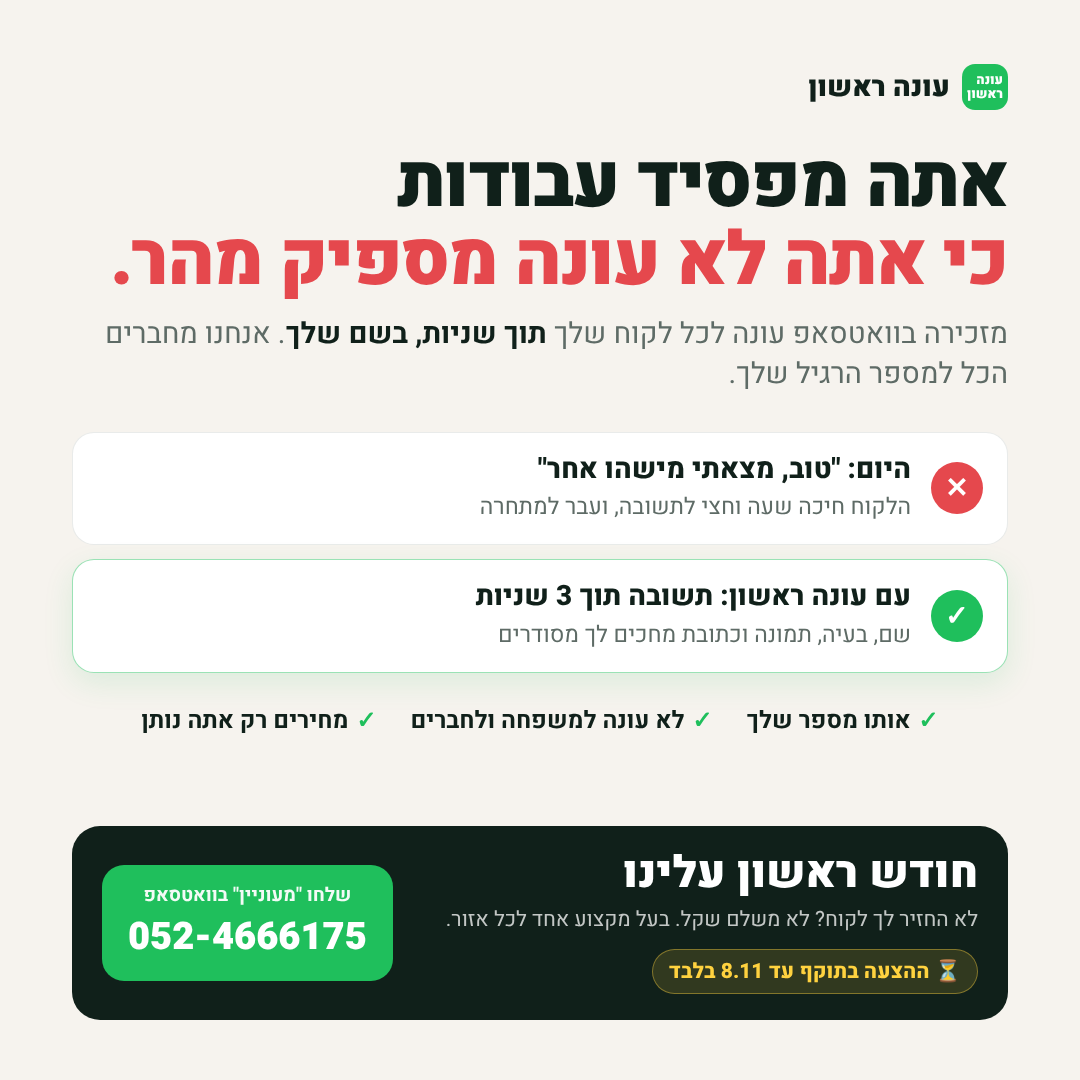
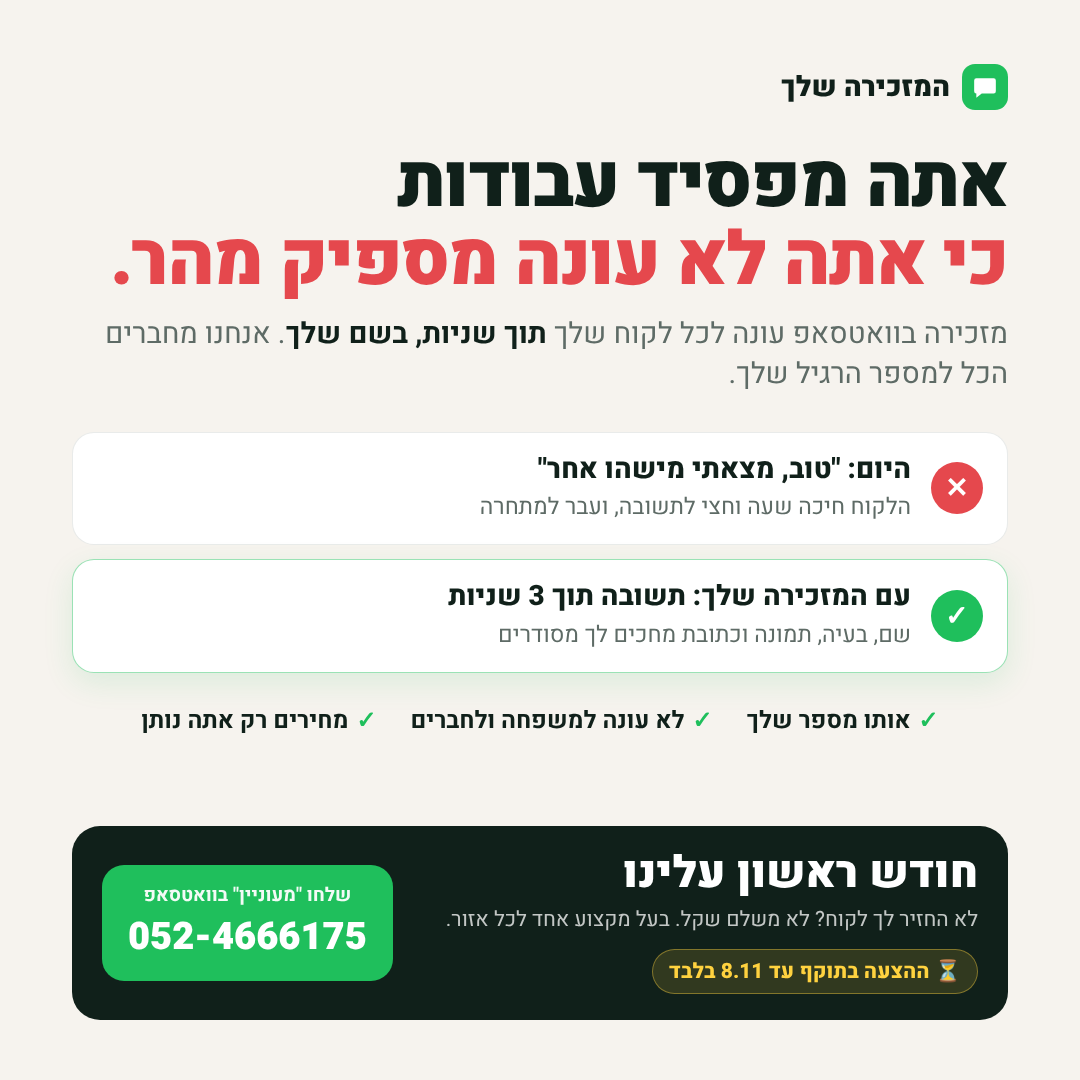
Marketing: ad 4 brand name is now 'המזכירה שלך'
Claude-Session: https://claude.ai/code/session_01HQzqsdhN1zqdDaLfgiyK4J

Changed region(s): [[0.4278, 0.5194, 0.7944, 0.5806], [0.7028, 0.0611, 0.9472, 0.0917]]

diff --git a/automation-agency/marketing/before-after-ad/ad.html b/automation-agency/marketing/before-after-ad/ad.html
@@ -2,7 +2,7 @@
 <html lang="he" dir="rtl">
 <head>
 <meta charset="utf-8">
-<title>מודעה 4 - עונה ראשון</title>
+<title>מודעה 4 - המזכירה שלך</title>
 <link href="https://fonts.googleapis.com/css2?family=Heebo:wght@400;500;700;800;900&display=block" rel="stylesheet">
 <style>
   /* default 1080x1080 (feed), ?story = 1080x1920. DEADLINE: change in the .deadline text */
@@ -53,12 +53,12 @@
 </head>
 <body>
 <div class="page">
-  <div class="brand"><i>עונה<br>ראשון</i>עונה ראשון</div>
+  <div class="brand"><i><svg viewBox="0 0 24 24" width="26" height="26" fill="#fff"><path d="M4 4h16a2 2 0 0 1 2 2v10a2 2 0 0 1-2 2H9l-5 4v-4a2 2 0 0 1-2-2V6a2 2 0 0 1 2-2z"/></svg></i>המזכירה שלך</div>
   <h1>אתה מפסיד עבודות<br><span>כי אתה לא עונה מספיק מהר.</span></h1>
   <div class="sub">מזכירה בוואטסאפ עונה לכל לקוח שלך <b>תוך שניות, בשם שלך</b>. אנחנו מחברים הכל למספר הרגיל שלך.</div>
   <div class="vs">
     <div class="row bad"><div class="dot">✕</div><div><h3>היום: "טוב, מצאתי מישהו אחר"</h3><p>הלקוח חיכה שעה וחצי לתשובה, ועבר למתחרה</p></div></div>
-    <div class="row good"><div class="dot">✓</div><div><h3>עם עונה ראשון: תשובה תוך 3 שניות</h3><p>שם, בעיה, תמונה וכתובת מחכים לך מסודרים</p></div></div>
+    <div class="row good"><div class="dot">✓</div><div><h3>עם המזכירה שלך: תשובה תוך 3 שניות</h3><p>שם, בעיה, תמונה וכתובת מחכים לך מסודרים</p></div></div>
   </div>
   <div class="checks"><div><b>✓</b>אותו מספר שלך</div><div><b>✓</b>לא עונה למשפחה ולחברים</div><div><b>✓</b>מחירים רק אתה נותן</div></div>
   <div class="spacer"></div>
